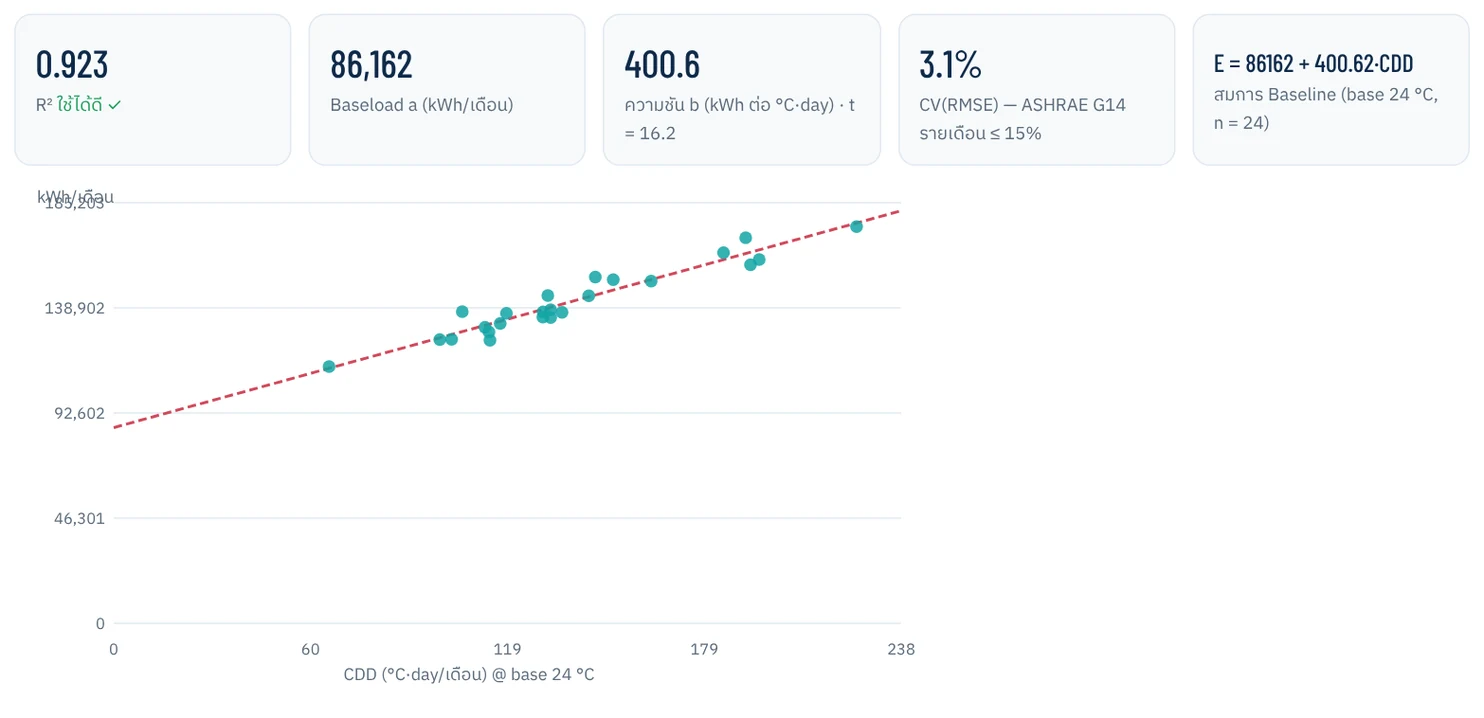
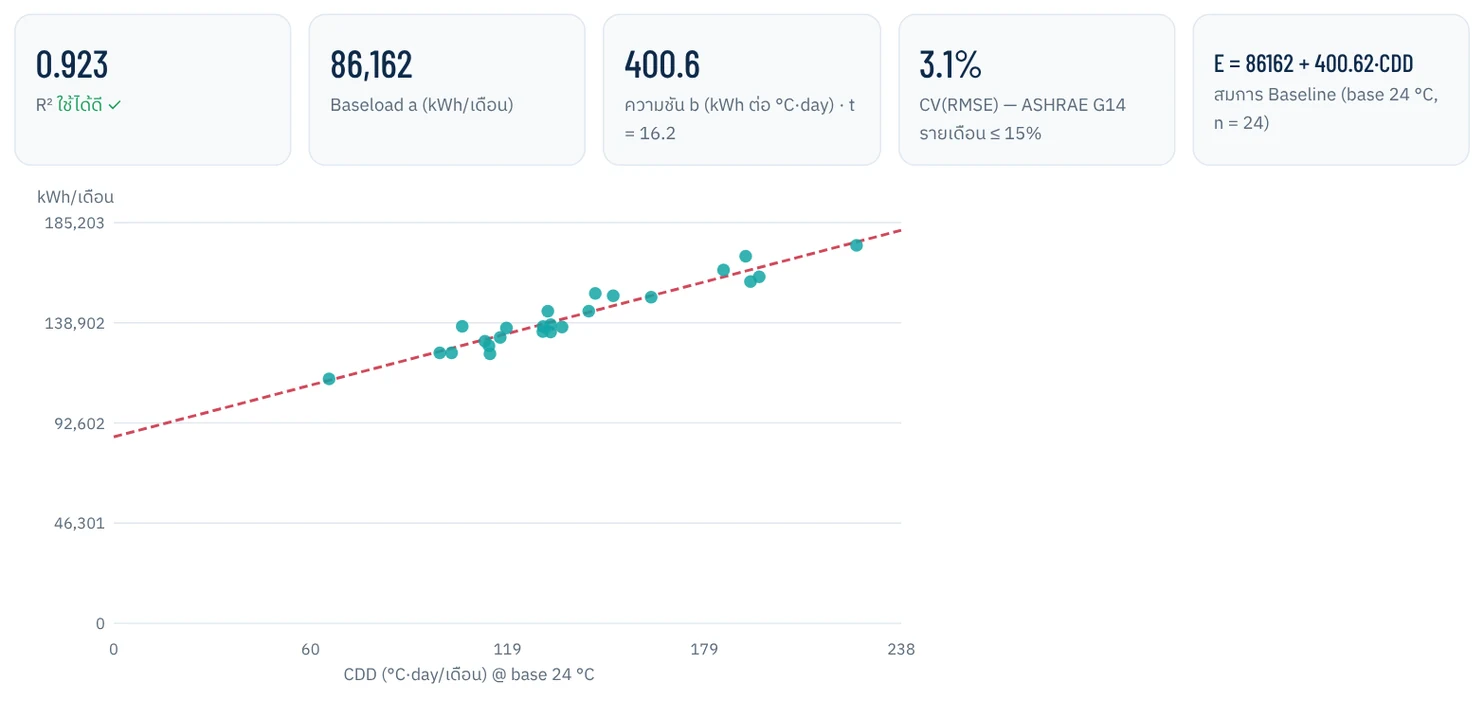
คู่มือ CDD Thailand (เว็บ): จับภาพใหม่หลัง #110 (ชื่อแกนกราฟถดถอยไม่ทับตัวเลข) · ตัวเลขเท่าเดิม
Claude-Session: https://claude.ai/code/session_01KrnFMReMDRgkXtX5xw5BvM

diff --git a/guides/cdd-thailand.html b/guides/cdd-thailand.html
@@ -26,7 +26,7 @@
 </style></head><body>
 <div class="bar" style="flex-wrap:wrap"><span><a href="index.html">← คู่มือทั้งหมด</a> 📘 คู่มือ: <b>วิเคราะห์ Cooling Degree Days 77 จังหวัด</b> · 28 หน้า</span><span><a href="../tools/Tool_CDD_Thailand.html">เปิดเครื่องมือ</a> <button onclick="print()">พิมพ์ / PDF</button></span></div>
 <main class="deck">
-<div class="sw"><section class="slide" id="s1"><div class="r" style="left:0px;top:0px;width:1280px;height:720px;background:#f4f7fb;"></div><div class="r" style="left:0px;top:0px;width:560px;height:720px;background:#1b3a5c;"></div><div class="r" style="left:0px;top:0px;width:560px;height:8px;background:#e67e22;"></div><div class="t" style="left:56px;top:70px;width:470px;height:30px;font-size:18px;line-height:1.25;color:#f5b041;font-weight:700;"><span>คู่มือใช้งานเครื่องมือ · ระดับ Free</span></div><div class="t" style="left:56px;top:112px;width:470px;height:116px;font-size:40px;line-height:1.4;color:#fff;font-weight:700;"><span>วิเคราะห์ Cooling Degree Days</span></div><div class="t" style="left:56px;top:238px;width:470px;height:29.7px;font-size:22px;line-height:1.35;color:#cfe0f5;"><span>Thailand CDD Analyzer</span></div><div class="r" style="left:56px;top:287.7px;width:70px;height:28px;background:#27ae60;border-radius:14px;"></div><div class="t" style="left:56px;top:287.7px;width:70px;height:28px;font-size:15px;line-height:1.25;color:#fff;font-weight:700;display:flex;align-items:center;text-align:center;justify-content:center;"><span>FREE</span></div><div class="r" style="left:58px;top:346.7px;width:7px;height:7px;background:#f5b041;border-radius:4px;"></div><div class="t" style="left:76px;top:337.7px;width:450px;height:47.6px;font-size:17px;line-height:1.4;color:#e8eef6;"><span>สำหรับช่างเทคนิคและผู้รับผิดชอบด้านพลังงาน — อ่านแล้วทำตามได้เอง</span></div><div class="r" style="left:58px;top:402.3px;width:7px;height:7px;background:#f5b041;border-radius:4px;"></div><div class="t" style="left:76px;top:393.3px;width:450px;height:23.8px;font-size:17px;line-height:1.4;color:#e8eef6;"><span>ใช้เวลาฝึกประมาณ 60 นาที</span></div><div class="r" style="left:58px;top:434.1px;width:7px;height:7px;background:#f5b041;border-radius:4px;"></div><div class="t" style="left:76px;top:425.1px;width:450px;height:47.6px;font-size:17px;line-height:1.4;color:#e8eef6;"><span>เคสตัวอย่าง: อาคาร A กรุงเทพฯ สร้างสมการพลังงานจากค่าไฟ 24 เดือน (ตัวเลขแต่งขึ้น)</span></div><div class="t" style="left:56px;top:640px;width:470px;height:24px;font-size:15px;line-height:1.25;color:#fff;font-weight:700;"><span>อ.หนึ่ง กลับทวี / Aj. Nueng Klubtavee</span></div><div class="t" style="left:56px;top:664px;width:470px;height:22px;font-size:14px;line-height:1.25;color:#9fb6d3;"><span>tripleeenergytools.com</span></div><img class="i sh" style="left:600px;top:135px;width:640px;height:450px" src="img/cdd-thailand/top_1280.webp" alt="" width="640" height="450" loading="lazy" decoding="async"><div class="t" style="left:600px;top:612px;width:640px;height:24px;font-size:14px;line-height:1.25;color:#5f6b7a;text-align:center;"><span>หน้าจอเครื่องมือ — เปิดได้จากเมนู Free ของเว็บไซต์</span></div><div class="t" style="left:600px;top:638px;width:640px;height:20px;font-size:12px;line-height:1.25;color:#5f6b7a;text-align:center;"><span>รุ่นเครื่องมือ: Free commit 3b252fe · จับภาพ 17 พ.ย. 2569 · คู่มือ Rev00</span></div></section></div>
+<div class="sw"><section class="slide" id="s1"><div class="r" style="left:0px;top:0px;width:1280px;height:720px;background:#f4f7fb;"></div><div class="r" style="left:0px;top:0px;width:560px;height:720px;background:#1b3a5c;"></div><div class="r" style="left:0px;top:0px;width:560px;height:8px;background:#e67e22;"></div><div class="t" style="left:56px;top:70px;width:470px;height:30px;font-size:18px;line-height:1.25;color:#f5b041;font-weight:700;"><span>คู่มือใช้งานเครื่องมือ · ระดับ Free</span></div><div class="t" style="left:56px;top:112px;width:470px;height:116px;font-size:40px;line-height:1.4;color:#fff;font-weight:700;"><span>วิเคราะห์ Cooling Degree Days</span></div><div class="t" style="left:56px;top:238px;width:470px;height:29.7px;font-size:22px;line-height:1.35;color:#cfe0f5;"><span>Thailand CDD Analyzer</span></div><div class="r" style="left:56px;top:287.7px;width:70px;height:28px;background:#27ae60;border-radius:14px;"></div><div class="t" style="left:56px;top:287.7px;width:70px;height:28px;font-size:15px;line-height:1.25;color:#fff;font-weight:700;display:flex;align-items:center;text-align:center;justify-content:center;"><span>FREE</span></div><div class="r" style="left:58px;top:346.7px;width:7px;height:7px;background:#f5b041;border-radius:4px;"></div><div class="t" style="left:76px;top:337.7px;width:450px;height:47.6px;font-size:17px;line-height:1.4;color:#e8eef6;"><span>สำหรับช่างเทคนิคและผู้รับผิดชอบด้านพลังงาน — อ่านแล้วทำตามได้เอง</span></div><div class="r" style="left:58px;top:402.3px;width:7px;height:7px;background:#f5b041;border-radius:4px;"></div><div class="t" style="left:76px;top:393.3px;width:450px;height:23.8px;font-size:17px;line-height:1.4;color:#e8eef6;"><span>ใช้เวลาฝึกประมาณ 60 นาที</span></div><div class="r" style="left:58px;top:434.1px;width:7px;height:7px;background:#f5b041;border-radius:4px;"></div><div class="t" style="left:76px;top:425.1px;width:450px;height:47.6px;font-size:17px;line-height:1.4;color:#e8eef6;"><span>เคสตัวอย่าง: อาคาร A กรุงเทพฯ สร้างสมการพลังงานจากค่าไฟ 24 เดือน (ตัวเลขแต่งขึ้น)</span></div><div class="t" style="left:56px;top:640px;width:470px;height:24px;font-size:15px;line-height:1.25;color:#fff;font-weight:700;"><span>อ.หนึ่ง กลับทวี / Aj. Nueng Klubtavee</span></div><div class="t" style="left:56px;top:664px;width:470px;height:22px;font-size:14px;line-height:1.25;color:#9fb6d3;"><span>tripleeenergytools.com</span></div><img class="i sh" style="left:600px;top:135px;width:640px;height:450px" src="img/cdd-thailand/top_1280.webp" alt="" width="640" height="450" loading="lazy" decoding="async"><div class="t" style="left:600px;top:612px;width:640px;height:24px;font-size:14px;line-height:1.25;color:#5f6b7a;text-align:center;"><span>หน้าจอเครื่องมือ — เปิดได้จากเมนู Free ของเว็บไซต์</span></div><div class="t" style="left:600px;top:638px;width:640px;height:20px;font-size:12px;line-height:1.25;color:#5f6b7a;text-align:center;"><span>รุ่นเครื่องมือ: Free commit 7284143 · จับภาพ 17 พ.ย. 2569 · คู่มือ Rev00</span></div></section></div>
 <div class="sw"><section class="slide" id="s2"><div class="r" style="left:0px;top:0px;width:1280px;height:78px;background:#ffffff;"></div><div class="r" style="left:0px;top:0px;width:10px;height:78px;background:#1b3a5c;"></div><div class="r" style="left:40px;top:78px;width:1200px;height:2px;background:#e3e8ef;"></div><div class="t" style="left:40px;top:16px;width:1200px;height:48px;font-size:29px;line-height:1.25;color:#1b3a5c;font-weight:700;display:flex;align-items:center;"><span>เครื่องมือนี้ตอบคำถามอะไร</span></div><div class="t" style="left:40px;top:688px;width:900px;height:22px;font-size:12px;line-height:1.25;color:#8a96a6;display:flex;align-items:center;"><span>คู่มือใช้งาน · วิเคราะห์ Cooling Degree Days 77 จังหวัด (Thailand CDD Analyzer) · ระดับ Free</span></div><div class="t" style="left:1040px;top:688px;width:200px;height:22px;font-size:12px;line-height:1.25;color:#8a96a6;display:flex;align-items:center;text-align:right;justify-content:flex-end;"><span>2 / 28</span></div><table class="tb" style="left:40px;top:100px;width:1200px;font-size:17px;--rh:38.3px"><thead><tr><th style="width:552px">คำถามหน้างาน</th><th style="width:312px">ใช้แท็บไหน</th><th style="width:336px">เคสอาคาร A ได้</th></tr></thead><tbody><tr><td>จังหวัดนี้<b>ร้อนแค่ไหน</b>ในแต่ละเดือน แต่ละปี</td><td>2) รายจังหวัด</td><td>กรุงเทพฯ 12 เดือนล่าสุด 1,702 °C·day</td></tr><tr><td>ช่วงไม่กี่เดือนที่ผ่านมา<b>ร้อนผิดปกติ</b>ไหม</td><td>2b) รายวัน</td><td>90 วัน 434.7 °C·day</td></tr><tr><td><b>เทียบหลายจังหวัด</b>ที่มีสาขา/โรงงาน</td><td>3) เปรียบเทียบ</td><td>กราฟรายเดือนหลายเส้น</td></tr><tr><td>ภาพรวม<b>ทั้งประเทศ</b></td><td>4) แผนที่</td><td>สูงสุด สิงห์บุรี 1,812</td></tr><tr><td>สร้าง<b>สมการพลังงาน (EnB)</b> ค่าไฟ vs CDD</td><td>5) Regression</td><td>R² 0.923 · CV(RMSE) 3.1%</td></tr><tr><td>พยากรณ์อากาศ · ระดับน้ำ (ต้องออนไลน์)</td><td>6) และ 7)</td><td>แนะนำสั้น ๆ ท้ายคู่มือ</td></tr></tbody></table><div class="r" style="left:40px;top:630px;width:1200px;height:46px;background:#eaf3fc;border-radius:8px;"></div><div class="r" style="left:40px;top:630px;width:6px;height:46px;background:#2e86c1;"></div><div class="t" style="left:56px;top:630px;width:110px;height:46px;font-size:16px;line-height:1.25;color:#2e86c1;font-weight:700;display:flex;align-items:center;"><span>💡 เคล็ดลับ</span></div><div class="t" style="left:168px;top:640px;width:1058px;height:26px;font-size:17px;line-height:1.4;color:#1f2933;display:flex;align-items:center;"><span>ข้อมูลอุณหภูมิต้องดึงหรือโหลดที่แท็บ 1 ก่อน — แท็บ 2–5 จึงคำนวณได้</span></div></section></div>
 <div class="sw"><section class="slide" id="s3"><div class="r" style="left:0px;top:0px;width:1280px;height:78px;background:#ffffff;"></div><div class="r" style="left:0px;top:0px;width:10px;height:78px;background:#1b3a5c;"></div><div class="r" style="left:40px;top:78px;width:1200px;height:2px;background:#e3e8ef;"></div><div class="t" style="left:40px;top:16px;width:1200px;height:48px;font-size:29px;line-height:1.25;color:#1b3a5c;font-weight:700;display:flex;align-items:center;"><span>แผนที่หน้าจอ</span></div><div class="t" style="left:40px;top:688px;width:900px;height:22px;font-size:12px;line-height:1.25;color:#8a96a6;display:flex;align-items:center;"><span>คู่มือใช้งาน · วิเคราะห์ Cooling Degree Days 77 จังหวัด (Thailand CDD Analyzer) · ระดับ Free</span></div><div class="t" style="left:1040px;top:688px;width:200px;height:22px;font-size:12px;line-height:1.25;color:#8a96a6;display:flex;align-items:center;text-align:right;justify-content:flex-end;"><span>3 / 28</span></div><img class="i sh" style="left:40px;top:96px;width:742px;height:521.7px" src="img/cdd-thailand/map_1484.webp" alt="" width="742" height="522" loading="lazy" decoding="async"><div class="cb" style="left:98.4px;top:173.4px;width:625.1px;height:74.5px;border-color:#d35400"></div><div class="bd rg" style="left:84.4px;top:159.4px;width:28px;height:28px;background:#d35400;font-size:15px">1</div><div class="cb" style="left:98.4px;top:256.9px;width:625.1px;height:61.1px;border-color:#c0392b"></div><div class="bd rg" style="left:84.4px;top:242.9px;width:28px;height:28px;background:#c0392b;font-size:15px">2</div><div class="cb" style="left:111.2px;top:556.1px;width:181.2px;height:33.2px;border-color:#1f5fbf"></div><div class="bd rg" style="left:97.2px;top:542.1px;width:28px;height:28px;background:#1f5fbf;font-size:15px">3</div><div class="cb" style="left:288.6px;top:555.5px;width:135.3px;height:34.4px;border-color:#1e8449"></div><div class="bd rg" style="left:274.6px;top:541.5px;width:28px;height:28px;background:#1e8449;font-size:15px">4</div><div class="cb" style="left:420.1px;top:555.5px;width:86.8px;height:34.4px;border-color:#1e8449"></div><div class="bd rg" style="left:406.1px;top:541.5px;width:28px;height:28px;background:#1e8449;font-size:15px">5</div><div class="cb" style="left:511.6px;top:386.1px;width:199.2px;height:42.3px;border-color:#c0392b"></div><div class="bd rg" style="left:497.6px;top:372.1px;width:28px;height:28px;background:#c0392b;font-size:15px">6</div><div class="bd" style="left:810px;top:101px;width:28px;height:28px;background:#d35400;font-size:15px">1</div><div class="t" style="left:850px;top:101px;width:390px;height:53.2px;font-size:19px;line-height:1.4;color:#1f2933;"><span><b>วันนี้มาทำงานอะไร?</b> — เลือกงานแล้วเหลือเฉพาะแท็บที่ต้องใช้</span></div><div class="bd" style="left:810px;top:164.2px;width:28px;height:28px;background:#c0392b;font-size:15px">2</div><div class="t" style="left:850px;top:164.2px;width:390px;height:30px;font-size:19px;line-height:1.4;color:#1f2933;"><span><b>แท็บ 1–7</b> เรียงตามลำดับงาน</span></div><div class="bd" style="left:810px;top:204.2px;width:28px;height:28px;background:#1f5fbf;font-size:15px">3</div><div class="t" style="left:850px;top:204.2px;width:390px;height:53.2px;font-size:19px;line-height:1.4;color:#1f2933;"><span>ดึงข้อมูล 77 จังหวัดจาก Open-Meteo (ต้องออนไลน์)</span></div><div class="bd" style="left:810px;top:267.4px;width:28px;height:28px;background:#1e8449;font-size:15px">4</div><div class="t" style="left:850px;top:267.4px;width:390px;height:30px;font-size:19px;line-height:1.4;color:#1f2933;"><span><b>บันทึก JSON</b> — เก็บข้อมูลไว้ใช้ offline</span></div><div class="bd" style="left:810px;top:307.4px;width:28px;height:28px;background:#1e8449;font-size:15px">5</div><div class="t" style="left:850px;top:307.4px;width:390px;height:30px;font-size:19px;line-height:1.4;color:#1f2933;"><span><b>โหลด JSON</b> — เปิดข้อมูลที่เคยบันทึก</span></div><div class="bd" style="left:810px;top:347.4px;width:28px;height:28px;background:#c0392b;font-size:15px">6</div><div class="t" style="left:850px;top:347.4px;width:390px;height:30px;font-size:19px;line-height:1.4;color:#1f2933;"><span><b>สถานะข้อมูล</b> — ต้องขึ้น "พร้อมใช้งาน ✓"</span></div><div class="r" style="left:810px;top:392.4px;width:430px;height:91.4px;background:#eaf3fc;border-radius:8px;"></div><div class="r" style="left:810px;top:392.4px;width:6px;height:91.4px;background:#2e86c1;"></div><div class="t" style="left:826px;top:392.4px;width:110px;height:91.4px;font-size:16px;line-height:1.25;color:#2e86c1;font-weight:700;display:flex;align-items:center;"><span>💡 เคล็ดลับ</span></div><div class="t" style="left:938px;top:402.4px;width:288px;height:71.4px;font-size:17px;line-height:1.4;color:#1f2933;display:flex;align-items:center;"><span>ดึงข้อมูลออนไลน์ครั้งเดียว แล้วบันทึก JSON — ครั้งต่อไปโหลดไฟล์ได้ทันทีแม้ไม่มีอินเทอร์เน็ต</span></div></section></div>
 <div class="sw"><section class="slide" id="s4"><div class="r" style="left:0px;top:0px;width:1280px;height:78px;background:#ffffff;"></div><div class="r" style="left:0px;top:0px;width:10px;height:78px;background:#1b3a5c;"></div><div class="r" style="left:40px;top:78px;width:1200px;height:2px;background:#e3e8ef;"></div><div class="t" style="left:40px;top:16px;width:1200px;height:48px;font-size:29px;line-height:1.25;color:#1b3a5c;font-weight:700;display:flex;align-items:center;"><span>เปิดบนมือถือ และสลับภาษา</span></div><div class="t" style="left:40px;top:688px;width:900px;height:22px;font-size:12px;line-height:1.25;color:#8a96a6;display:flex;align-items:center;"><span>คู่มือใช้งาน · วิเคราะห์ Cooling Degree Days 77 จังหวัด (Thailand CDD Analyzer) · ระดับ Free</span></div><div class="t" style="left:1040px;top:688px;width:200px;height:22px;font-size:12px;line-height:1.25;color:#8a96a6;display:flex;align-items:center;text-align:right;justify-content:flex-end;"><span>4 / 28</span></div><img class="i sh" style="left:40px;top:96px;width:268px;height:580px" src="img/cdd-thailand/mobile_536.webp" alt="" width="268" height="580" loading="lazy" decoding="async"><div class="r" style="left:342px;top:111.8px;width:8px;height:8px;background:#e67e22;border-radius:4px;"></div><div class="t" style="left:360px;top:100px;width:880px;height:26.6px;font-size:19px;line-height:1.4;color:#1f2933;"><span>ใช้บนมือถือได้ — การ์ดเรียงลงมาเป็นแถวเดียว ตารางเลื่อนซ้ายขวาได้</span></div><div class="r" style="left:342px;top:148.4px;width:8px;height:8px;background:#e67e22;border-radius:4px;"></div><div class="t" style="left:360px;top:136.6px;width:880px;height:26.6px;font-size:19px;line-height:1.4;color:#1f2933;"><span>ปุ่ม <b>🌐 ไทย | EN</b> ลอยอยู่ด้านข้าง กดสลับภาษาได้ ข้อมูลที่โหลดไว้ไม่หาย</span></div><div class="r" style="left:342px;top:185px;width:8px;height:8px;background:#e67e22;border-radius:4px;"></div><div class="t" style="left:360px;top:173.2px;width:880px;height:26.6px;font-size:19px;line-height:1.4;color:#1f2933;"><span>ป้าย <b>ตั้งค่า</b> ข้างชื่อช่อง = ค่าที่ผู้ใช้เลือกเอง เช่น จังหวัด base temperature</span></div><div class="r" style="left:342px;top:221.6px;width:8px;height:8px;background:#e67e22;border-radius:4px;"></div><div class="t" style="left:360px;top:209.8px;width:880px;height:26.6px;font-size:19px;line-height:1.4;color:#1f2933;"><span>ใต้ทุกช่องมีคำอธิบายสีเทาบอกความหมายและค่าที่ใช้บ่อย</span></div><div class="r" style="left:336px;top:252.4px;width:904px;height:46px;background:#eaf3fc;border-radius:8px;"></div><div class="r" style="left:336px;top:252.4px;width:6px;height:46px;background:#2e86c1;"></div><div class="t" style="left:352px;top:252.4px;width:110px;height:46px;font-size:16px;line-height:1.25;color:#2e86c1;font-weight:700;display:flex;align-items:center;"><span>💡 เคล็ดลับ</span></div><div class="t" style="left:464px;top:262.4px;width:762px;height:26px;font-size:17px;line-height:1.4;color:#1f2933;display:flex;align-items:center;"><span>งานสร้างสมการพลังงานแนะนำให้ทำบนคอมพิวเตอร์ เพราะต้องวางค่าไฟจาก Excel</span></div></section></div>
